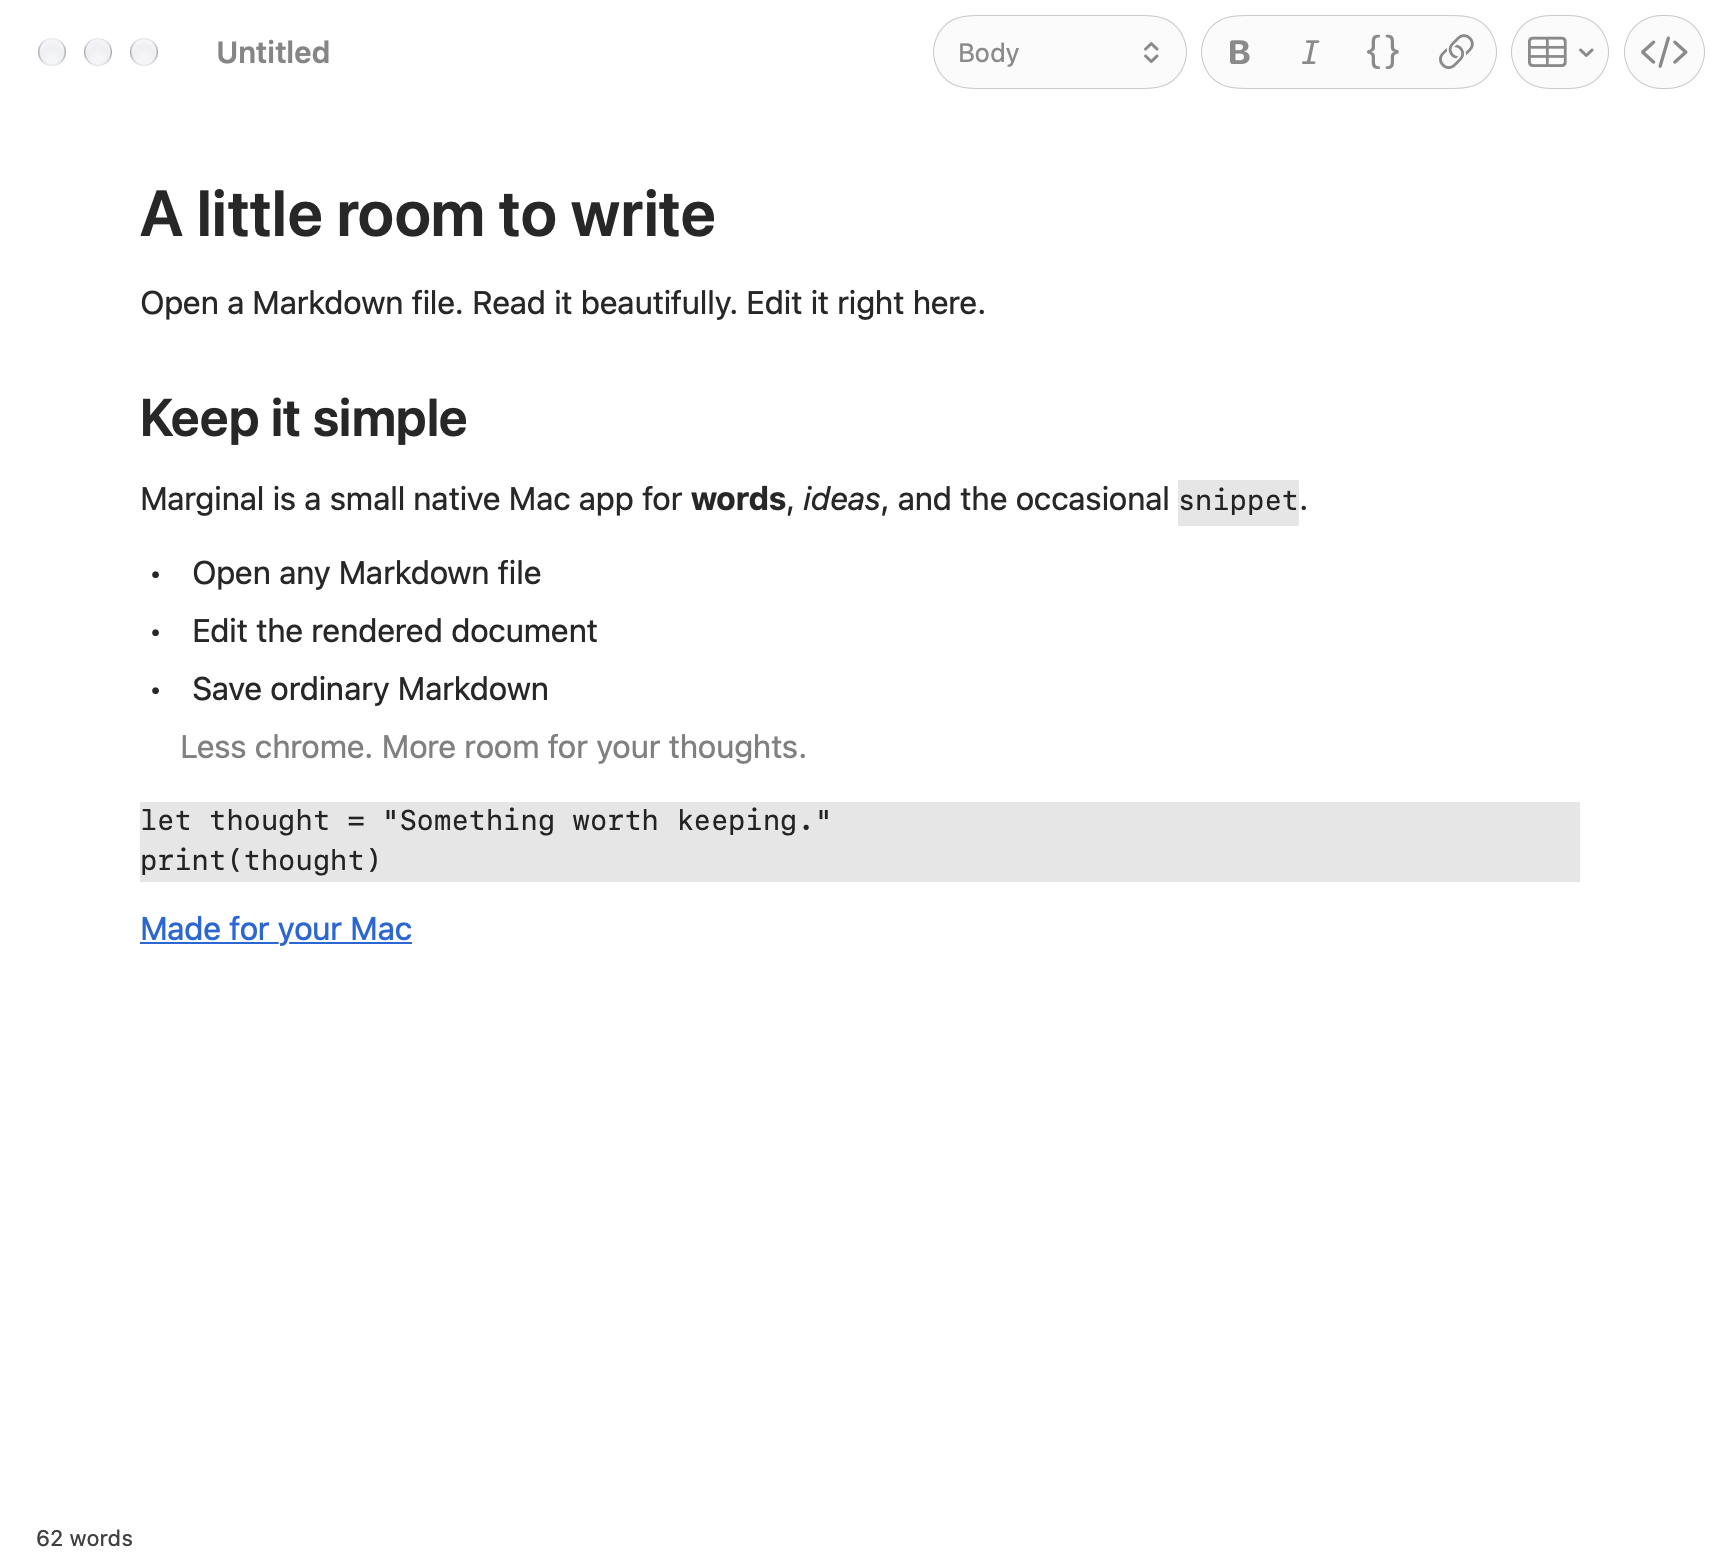
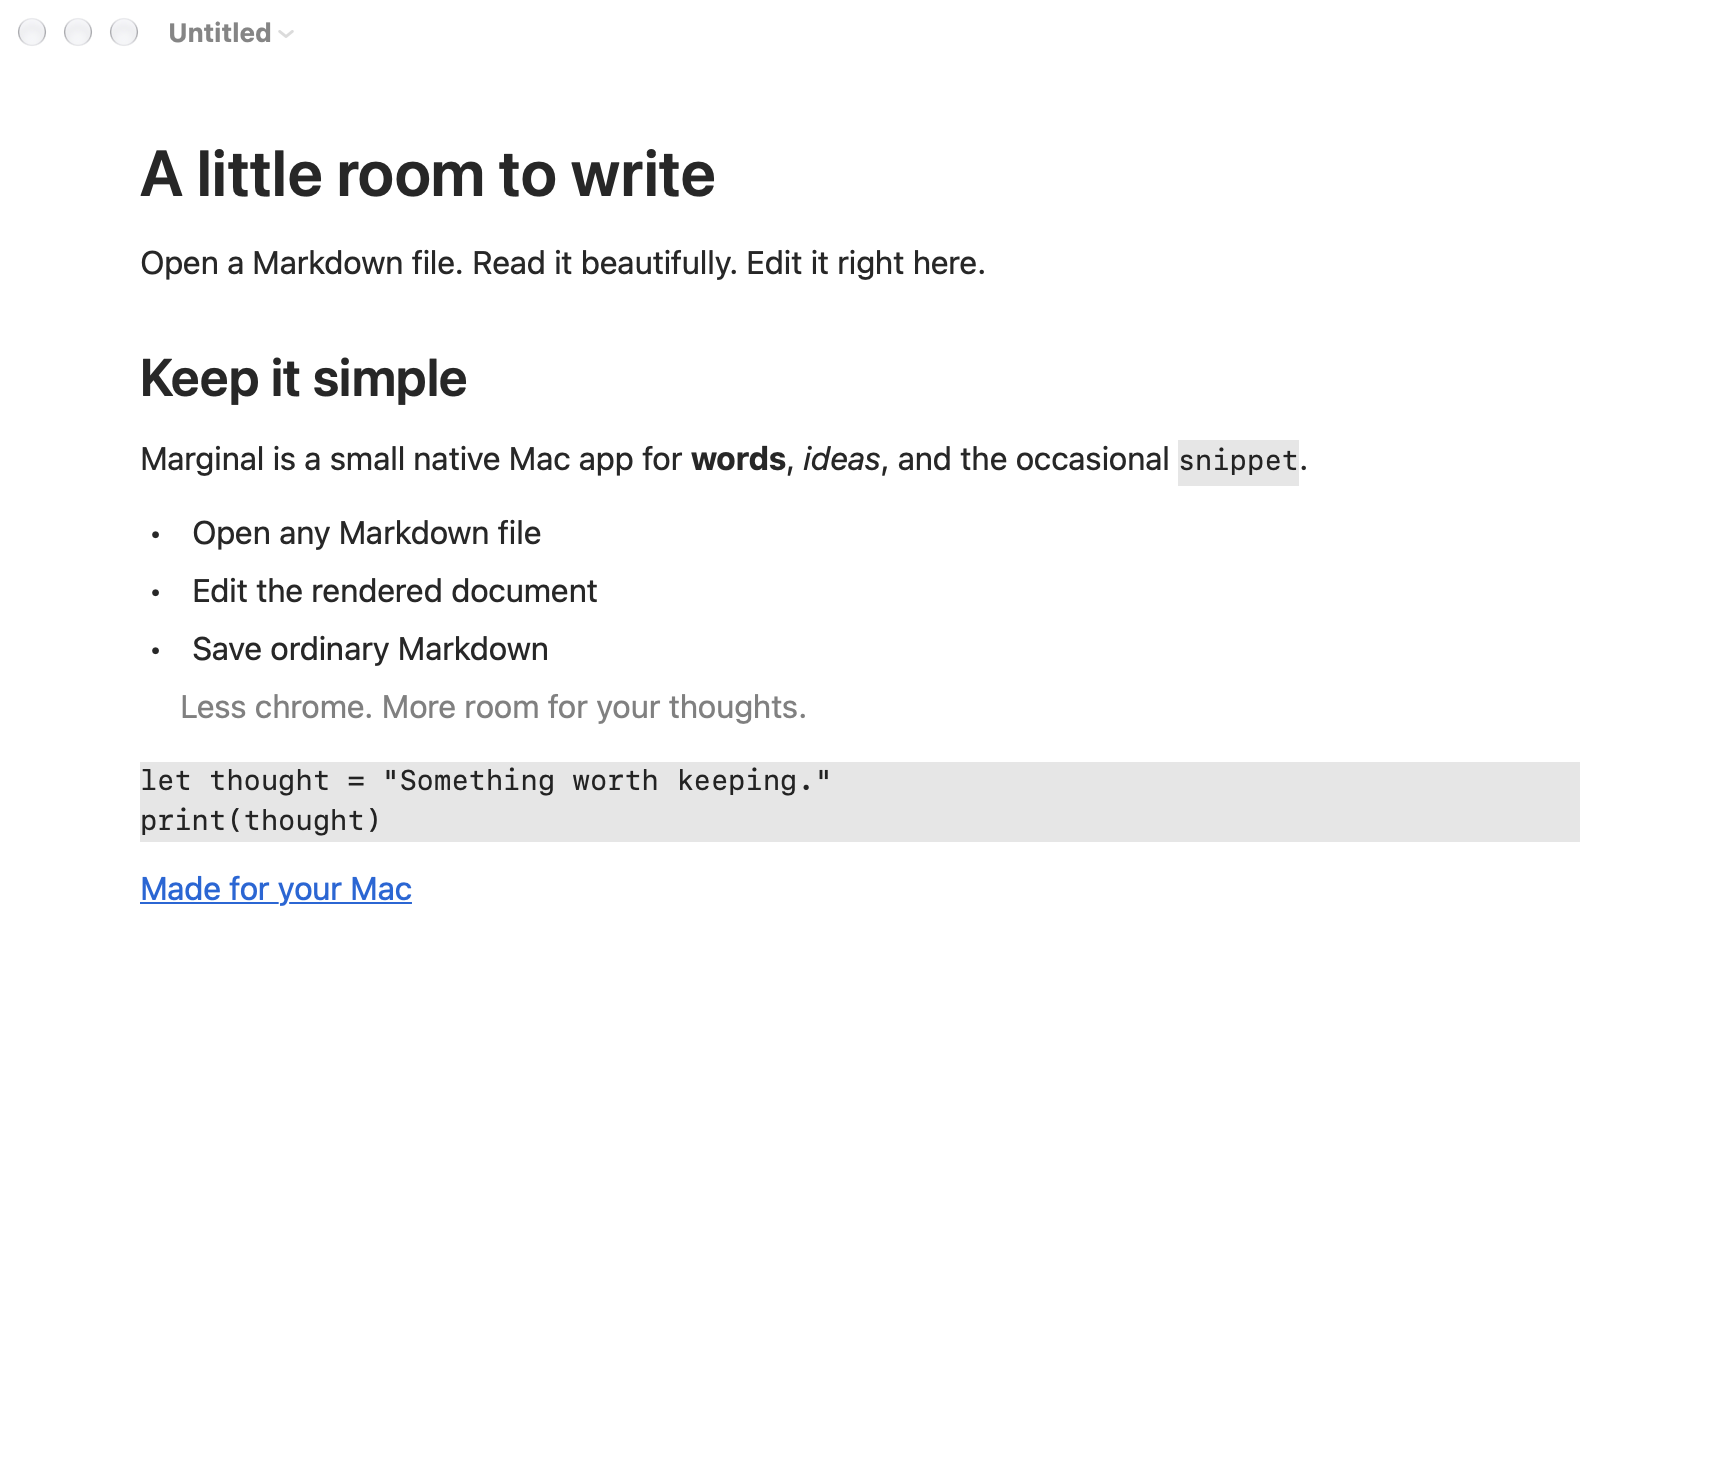
Use a minimal text-first window by default

diff --git a/Sources/MarginalApp/EditorWindowController.swift b/Sources/MarginalApp/EditorWindowController.swift
@@ -1,7 +1,7 @@
 import AppKit
 import MarginalCore
 
-final class EditorWindowController: NSWindowController, NSTextViewDelegate, NSToolbarDelegate {
+final class EditorWindowController: NSWindowController, NSTextViewDelegate, NSToolbarDelegate, NSMenuItemValidation {
     let editor: EditorTextView
     let scroll = NSScrollView()
     let status = NSTextField(labelWithString: "")
@@ -10,8 +10,14 @@ final class EditorWindowController: NSWindowController, NSTextViewDelegate, NSTo
     private var statusWork: DispatchWorkItem?
     private var sourceItem: NSToolbarItem?
     private var lastWidth: CGFloat = 0
+    private var scrollToStatus: NSLayoutConstraint?
+    private var scrollToBottom: NSLayoutConstraint?
+    private let defaults: UserDefaults
+    static let toolbarKey = "showsFormattingToolbar"
+    static let wordCountKey = "showsWordCount"
 
-    init(document: MarginalDocument) {
+    init(document: MarginalDocument, defaults: UserDefaults = .standard) {
+        self.defaults = defaults
         markdownDocument = document
         let layout = NSLayoutManager()
         layout.allowsNonContiguousLayout = true
@@ -29,18 +35,28 @@ final class EditorWindowController: NSWindowController, NSTextViewDelegate, NSTo
         window.center()
         window.setFrameAutosaveName("MarginalEditor")
         configureEditor()
+        configureStylePicker()
         configureLayout()
         let toolbar = NSToolbar(identifier: "MarginalToolbar")
         toolbar.delegate = self
         toolbar.displayMode = .iconOnly
         toolbar.allowsUserCustomization = false
         window.toolbar = toolbar
-        window.toolbarStyle = .unified
+        window.toolbarStyle = .unifiedCompact
+        toolbar.isVisible = defaults.bool(forKey: Self.toolbarKey)
         window.makeFirstResponder(editor)
         updateStatus()
     }
 
     required init?(coder: NSCoder) { fatalError("init(coder:) has not been implemented") }
+
+    private func configureStylePicker() {
+        stylePicker.addItems(withTitles: ["Body", "Heading 1", "Heading 2", "Heading 3", "Heading 4", "Heading 5", "Heading 6", "Bullet List", "Numbered List", "Quote", "Code Block"])
+        stylePicker.target = self
+        stylePicker.action = #selector(selectStyle)
+        stylePicker.setAccessibilityLabel("Paragraph style")
+        stylePicker.frame = NSRect(x: 0, y: 0, width: 125, height: 26)
+    }
 
     private func configureEditor() {
         editor.delegate = self
@@ -78,17 +94,20 @@ final class EditorWindowController: NSWindowController, NSTextViewDelegate, NSTo
         content.addSubview(scroll)
         status.font = .systemFont(ofSize: 11)
         status.textColor = .secondaryLabelColor
+        status.isHidden = !defaults.bool(forKey: Self.wordCountKey)
         status.translatesAutoresizingMaskIntoConstraints = false
         content.addSubview(status)
         NSLayoutConstraint.activate([
             scroll.topAnchor.constraint(equalTo: content.topAnchor),
             scroll.leadingAnchor.constraint(equalTo: content.leadingAnchor),
             scroll.trailingAnchor.constraint(equalTo: content.trailingAnchor),
-            scroll.bottomAnchor.constraint(equalTo: status.topAnchor, constant: -8),
             status.leadingAnchor.constraint(equalTo: content.leadingAnchor, constant: 18),
             status.trailingAnchor.constraint(equalTo: content.trailingAnchor, constant: -18),
             status.bottomAnchor.constraint(equalTo: content.bottomAnchor, constant: -8)
         ])
+        scrollToStatus = scroll.bottomAnchor.constraint(equalTo: status.topAnchor, constant: -8)
+        scrollToBottom = scroll.bottomAnchor.constraint(equalTo: content.bottomAnchor)
+        updateStatusLayout()
         scroll.contentView.postsBoundsChangedNotifications = true
         scroll.postsFrameChangedNotifications = true
         NotificationCenter.default.addObserver(self, selector: #selector(resizeEditor), name: NSView.frameDidChangeNotification, object: scroll)
@@ -129,9 +148,41 @@ final class EditorWindowController: NSWindowController, NSTextViewDelegate, NSTo
     }
 
     private func updateStatus() {
+        guard !status.isHidden else { return }
         let words = editor.string.split(whereSeparator: { $0.isWhitespace || $0 == "\u{fffc}" }).filter { !["•", "☐", "☑"].contains(String($0)) }.count
         status.stringValue = "\(words.formatted()) \(words == 1 ? "word" : "words")" + (editor.sourceMode ? "  ·  Markdown source" : "")
         status.setAccessibilityLabel(status.stringValue)
+    }
+
+    private func updateStatusLayout() {
+        scrollToStatus?.isActive = false
+        scrollToBottom?.isActive = false
+        (status.isHidden ? scrollToBottom : scrollToStatus)?.isActive = true
+    }
+
+    @objc func toggleFormattingToolbar(_ sender: Any?) {
+        guard let toolbar = window?.toolbar else { return }
+        toolbar.isVisible.toggle()
+        defaults.set(toolbar.isVisible, forKey: Self.toolbarKey)
+        window?.makeFirstResponder(editor)
+    }
+
+    @objc func toggleWordCount(_ sender: Any?) {
+        status.isHidden.toggle()
+        defaults.set(!status.isHidden, forKey: Self.wordCountKey)
+        updateStatusLayout()
+        updateStatus()
+    }
+
+    func validateMenuItem(_ menuItem: NSMenuItem) -> Bool {
+        if menuItem.action == #selector(toggleFormattingToolbar(_:)) {
+            menuItem.state = window?.toolbar?.isVisible == true ? .on : .off
+        } else if menuItem.action == #selector(toggleWordCount(_:)) {
+            menuItem.state = status.isHidden ? .off : .on
+        } else if menuItem.action == #selector(toggleSource(_:)) {
+            menuItem.title = editor.sourceMode ? "Show Rendered Editor" : "Show Markdown Source"
+        }
+        return true
     }
 
     @objc func selectStyle(_ sender: NSPopUpButton) {
@@ -163,11 +214,16 @@ final class EditorWindowController: NSWindowController, NSTextViewDelegate, NSTo
         editor.typingAttributes = source ? [.font: NSFont.monospacedSystemFont(ofSize: 14, weight: .regular), .foregroundColor: NSColor.labelColor] : MarkdownStyle.attributes()
         editor.setSelectedRange(NSRange(location: min(selection.location, rendered.length), length: min(selection.length, max(0, rendered.length - selection.location))))
         stylePicker.isEnabled = !source
-        sourceItem?.label = source ? "Rendered Editor" : "Markdown Source"
-        sourceItem?.toolTip = source ? "Show rendered editor (⇧⌘M)" : "Show Markdown source (⇧⌘M)"
-        sourceItem?.image = NSImage(systemSymbolName: source ? "doc.richtext" : "chevron.left.forwardslash.chevron.right", accessibilityDescription: sourceItem?.label)
+        updateSourceItem()
+        window?.subtitle = source ? "Markdown source" : ""
         editor.needsDisplay = true
         updateStatus()
+    }
+
+    private func updateSourceItem() {
+        sourceItem?.label = editor.sourceMode ? "Rendered Editor" : "Markdown Source"
+        sourceItem?.toolTip = editor.sourceMode ? "Show rendered editor (⇧⌘M)" : "Show Markdown source (⇧⌘M)"
+        sourceItem?.image = NSImage(systemSymbolName: editor.sourceMode ? "doc.richtext" : "chevron.left.forwardslash.chevron.right", accessibilityDescription: sourceItem?.label)
     }
 
     func toolbarAllowedItemIdentifiers(_ toolbar: NSToolbar) -> [NSToolbarItem.Identifier] { toolbarDefaultItemIdentifiers(toolbar) }
@@ -186,11 +242,6 @@ final class EditorWindowController: NSWindowController, NSTextViewDelegate, NSTo
         }
         let item = NSToolbarItem(itemIdentifier: identifier)
         if identifier.rawValue == "style" {
-            stylePicker.addItems(withTitles: ["Body", "Heading 1", "Heading 2", "Heading 3", "Heading 4", "Heading 5", "Heading 6", "Bullet List", "Numbered List", "Quote", "Code Block"])
-            stylePicker.target = self
-            stylePicker.action = #selector(selectStyle)
-            stylePicker.setAccessibilityLabel("Paragraph style")
-            stylePicker.frame = NSRect(x: 0, y: 0, width: 125, height: 26)
             item.view = stylePicker
             item.label = "Paragraph Style"
             return item
@@ -208,7 +259,10 @@ final class EditorWindowController: NSWindowController, NSTextViewDelegate, NSTo
         item.image = NSImage(systemSymbolName: symbol, accessibilityDescription: label)
         item.action = action
         item.target = identifier.rawValue == "source" ? self : editor
-        if identifier.rawValue == "source" { sourceItem = item }
+        if identifier.rawValue == "source" {
+            sourceItem = item
+            updateSourceItem()
+        }
         return item
     }
 

diff --git a/Sources/MarginalApp/Application.swift b/Sources/MarginalApp/Application.swift
@@ -150,7 +150,9 @@ let tableMenuItem = NSMenuItem(title: "Table", action: nil, keyEquivalent: "")
 tableMenuItem.submenu = EditorTextView.tableMenu()
 mainMenu.addItem(tableMenuItem)
 mainMenu.addItem(submenu("View", items: [
-    menuItem("Toggle Markdown Source", #selector(EditorWindowController.toggleSource(_:)), "m", modifiers: [.command, .shift]),
+    menuItem("Show Formatting Toolbar", #selector(EditorWindowController.toggleFormattingToolbar(_:)), "t", modifiers: [.command, .option]),
+    menuItem("Show Word Count", #selector(EditorWindowController.toggleWordCount(_:))), .separator(),
+    menuItem("Show Markdown Source", #selector(EditorWindowController.toggleSource(_:)), "m", modifiers: [.command, .shift]),
     menuItem("Enter Full Screen", #selector(NSWindow.toggleFullScreen(_:)), "f", modifiers: [.command, .control])
 ]))
 let windowMenu = submenu("Window", items: [

diff --git a/README.md b/README.md
@@ -14,7 +14,7 @@ The latest release is signed with Aaron Cousland's Apple Developer ID, notarized
 
 ## Use
 
-Open a `.md`, `.markdown`, `.mdown`, `.mkd`, or `.txt` file with **File → Open** (⌘O), or drop it onto the app in Finder. Click anywhere in the rendered text and type. Use the small toolbar or Format menu to change formatting. **⌘S** saves; standard macOS autosave also saves existing documents in place.
+Open a `.md`, `.markdown`, `.mdown`, `.mkd`, or `.txt` file with **File → Open** (⌘O), or drop it onto the app in Finder. Click anywhere in the rendered text and type. The default window keeps the document in focus, with the formatting toolbar and word count hidden. Use the **Format** and **Table** menus or keyboard shortcuts to edit. **View → Show Formatting Toolbar** (⌥⌘T) and **View → Show Word Count** bring back the optional controls; your choices are remembered for new windows. **⌘S** saves; standard macOS autosave also saves existing documents in place.
 
 | Action | Shortcut |
 | --- | --- |
@@ -26,6 +26,7 @@ Open a `.md`, `.markdown`, `.mdown`, `.mkd`, or `.txt` file with **File → Open
 | Bullet list / Numbered list / Quote | ⌥⌘7 / ⌥⌘8 / ⌥⌘9 |
 | Find | ⌘F |
 | Markdown source / Rendered editor | ⇧⌘M |
+| Show / Hide formatting toolbar | ⌥⌘T |
 
 ## Typing shortcuts
 
@@ -42,7 +43,7 @@ Type three backticks (optionally followed by a language such as `swift`) and pre
 
 ## Tables
 
-Use the **table button in the toolbar** or **Table → Insert Table…** to create a table with a header and the number of body rows and columns you choose. Click a cell, then use the same menu to add or delete rows and columns, align a column, or delete the table. These changes preserve cell formatting and support undo/redo. The required header row and final column cannot be deleted individually.
+Use **Table → Insert Table…** to create a table with a header and the number of body rows and columns you choose. The optional formatting toolbar also has a table button. Click a cell, then use the same menu to add or delete rows and columns, align a column, or delete the table. These changes preserve cell formatting and support undo/redo. The required header row and final column cannot be deleted individually.
 
 **Tab** and **Shift-Tab** move between cells; Tab from the last cell adds a row. **Return** inserts a line break inside a cell. **Table → Paragraph After Table** moves you out of the table to keep writing. Use the Table controls to change structure; Backspace and Delete protect cell boundaries.
 
@@ -97,7 +98,7 @@ dist/Marginal.app/Contents/MacOS/Marginal --check-updates
 Update the default version in `scripts/build.sh`, `scripts/release.sh`, and `Resources/Info.plist`, and write the matching `RELEASE_NOTES.md`. Commit and push the source, then publish from this Mac:
 
 ```sh
-NOTARY_PROFILE=renoir-notary scripts/publish-release.sh 1.2.1
+NOTARY_PROFILE=renoir-notary scripts/publish-release.sh 1.2.2
 ```
 
 The script runs the tests, builds and signs the app and Sparkle helpers with a Developer ID Application certificate, notarizes and staples the app, verifies Gatekeeper acceptance, and signs the final ZIP using the `marginal` Sparkle account in the login Keychain. It publishes the tag, archive, and checksum to GitHub, verifies the download is available, then commits and publishes the updated `appcast.xml`. The feed never offers an archive before it is uploaded. Versions must increase; both bundle version fields use the release version.
@@ -111,7 +112,7 @@ To prepare signed artifacts without publishing:
 ```sh
 SIGNING_IDENTITY='Developer ID Application: Your Name (TEAMID)' \
 NOTARY_PROFILE='your-keychain-profile' \
-VERSION=1.2.1 scripts/release.sh
+VERSION=1.2.2 scripts/release.sh
 ```
 
 ## Implementation

diff --git a/RELEASE_NOTES.md b/RELEASE_NOTES.md
@@ -1,5 +1,5 @@
-# Marginal 1.2.1
+# Marginal 1.2.2
 
-- Download and install updates inside Marginal, using the same Sparkle updater as Mondrian.
-- Choose whether to check for updates automatically and whether to download and install them automatically from the Marginal menu.
-- Updates are verified against Marginal’s signing key before installation. Existing automatic-check preferences are preserved.
+- A text-first window: the formatting toolbar and word count are hidden by default, leaving more room for your document.
+- Show the optional formatting toolbar and word count from View. Your choices are remembered for new windows.
+- Formatting, tables, and Markdown source remain available through menus and keyboard shortcuts. Source mode has a small title-bar label.
